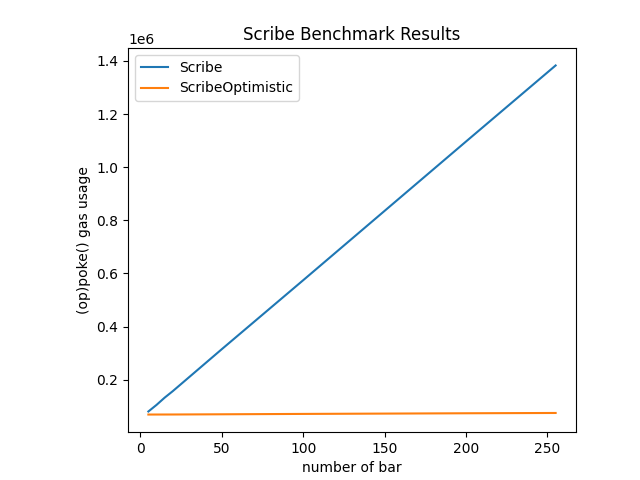
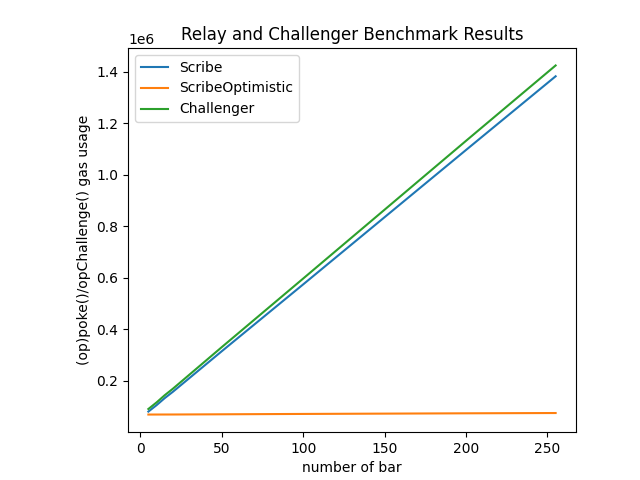
docs: Adds challenger benchmarks

diff --git a/script/benchmarks/visualize.py b/script/benchmarks/visualize.py
@@ -9,15 +9,19 @@ import matplotlib.pyplot as plt
 # Bar configuration
 x = [5, 10, 15, 20, 50, 100, 200, 255]
 
-# Scribe benchmark results received via `run.sh`
+# Scribe's poke benchmark results received via `relay.sh`
 scribe = [80280, 105070, 132414, 156983, 314455, 574227, 1096599, 1382810]
 
-# ScribeOptimistic benchmark results received via `run.sh`
+# ScribeOptimistic's opPoke benchmark results received via `relay.sh`
 opScribe = [68815, 68887, 68944, 69004, 69791, 71186, 73630, 74735]
+
+# Challenger's opChallenge benchmark results received via `challenger.sh`
+challenger = [90374, 115745, 143701, 168848, 330371, 596972, 1132141, 1424857]
 
 # Plotting the benchmark data
 plt.plot(x, scribe, label='Scribe')
 plt.plot(x, opScribe, label='ScribeOptimistic')
+plt.plot(x, challenger, label='Challenger')
 
 # Adjust the margins
 plt.subplots_adjust(left=0.2, right=0.9, bottom=0.1, top=0.9)
@@ -26,8 +30,8 @@ plt.legend()
 
 # Adding labels and title
 plt.xlabel('number of bar')
-plt.ylabel('(op)poke() gas usage')
-plt.title('Scribe Benchmark Results')
+plt.ylabel('(op)poke()/opChallenge() gas usage')
+plt.title('Relay and Challenger Benchmark Results')
 
 # Save graph to file
 plt.savefig('benchmarks.png')

diff --git a/docs/Benchmarks.md b/docs/Benchmarks.md
@@ -1,17 +1,17 @@
 # Benchmarks
 
-The benchmark for `Scribe` is based on the `poke()` function while the benchmark for `ScribeOptimistic` being based on the `opPoke()` function.
+The benchmark for `Scribe` is based on the `poke()` function while the benchmark for `ScribeOptimistic` being based on the `opPoke()` function. The challenger's benchmark is based on the `opChallenge()` function.
 
-| `bar` | `Scribe::poke()` | `ScribeOptimistic::opPoke()` |
-| ----- | ---------------- | ---------------------------- |
-| 5     | 81,025           | 68,944                       |
-| 10    | 106,395          | 69,004                       |
-| 15    | 134,342          | 69,061                       |
-| 20    | 159,488          | 69,133                       |
-| 50    | 320,473          | 69,908                       |
-| 100   | 585,993          | 71,315                       |
-| 200   | 1,119,535        | 73,759                       |
-| 255   | 1,411,702        | 74,852                       |
+| `bar` | `Scribe::poke()` | `ScribeOptimistic::opPoke()` | `ScribeOptimistic::opChallenge()` |
+| ----- | ---------------- | ---------------------------- | --------------------------------- |
+| 5     | 81,025           | 68,944                       | 90,374                            |
+| 10    | 106,395          | 69,004                       | 115,745                           |
+| 15    | 134,342          | 69,061                       | 143,701                           |
+| 20    | 159,488          | 69,133                       | 168,848                           |
+| 50    | 320,473          | 69,908                       | 330,371                           |
+| 100   | 585,993          | 71,315                       | 596,972                           |
+| 200   | 1,119,535        | 73,759                       | 1,132,141                         |
+| 255   | 1,411,702        | 74,852                       | 1,424,857                         |
 
 The following visualization shows the gas usage for different numbers of `bar`:
 
